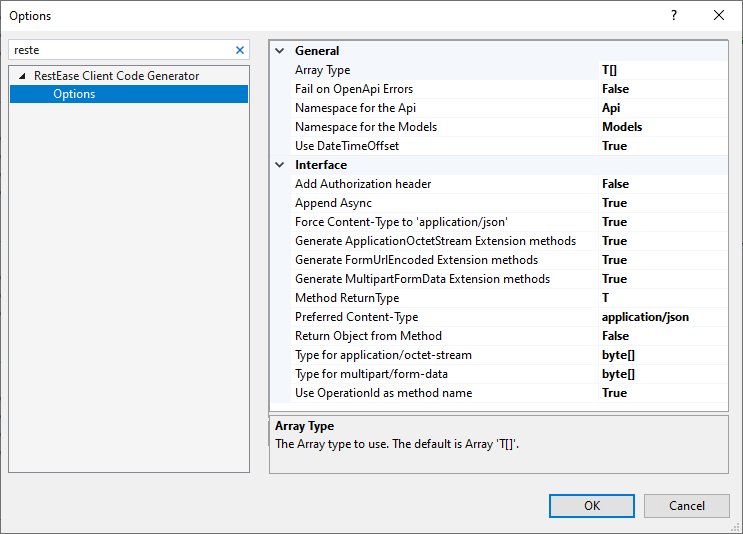
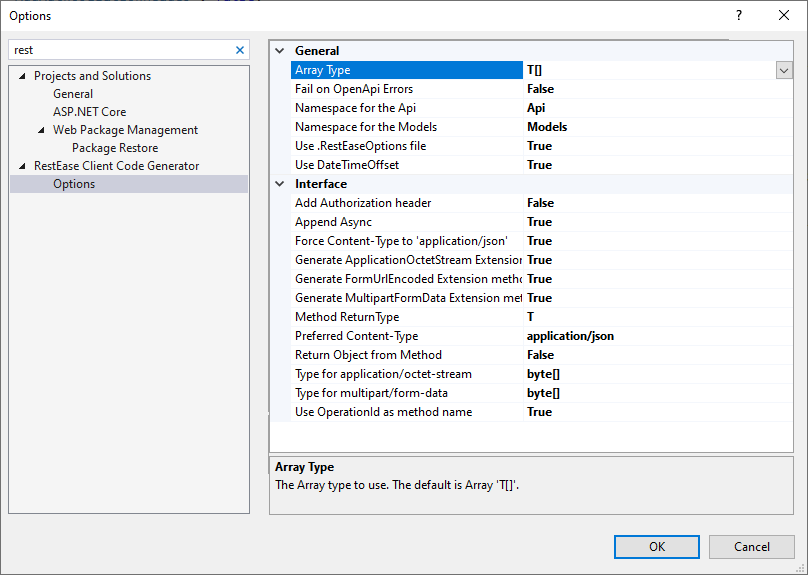
Add User Options

diff --git a/src/RestEaseClientGenerator.VSIX/Options/OptionsFactory.cs b/src/RestEaseClientGenerator.VSIX/Options/OptionsFactory.cs
@@ -21,11 +21,15 @@ namespace RestEaseClientGenerator.VSIX.Options
         public string Serialize(IRestEaseOptions options)
         {
             var stringBuilder = new StringBuilder();
+            //stringBuilder.AppendLine("{");
+            //stringBuilder.AppendLine("  /**/");
+
             using (var t = new JsonTextWriter(new StringWriter(stringBuilder)))
             {
                 t.Formatting = Formatting.Indented;
 
                 t.WriteStartObject();
+                t.WriteComment("Use this file to overrule the RestEase Client Generator Options");
 
                 t.WritePropertyName(nameof(options.AddAuthorizationHeader));
                 t.WriteValue(options.AddAuthorizationHeader);
@@ -36,9 +40,13 @@ namespace RestEaseClientGenerator.VSIX.Options
                 t.WritePropertyName(nameof(options.AppendAsync));
                 t.WriteValue(options.AppendAsync);
 
-                WriteEnumComment<ApplicationOctetStreamType>(t);
                 t.WritePropertyName(nameof(options.ApplicationOctetStreamType));
                 t.WriteValue(options.ApplicationOctetStreamType.GetDescription());
+                WriteEnumComment<ApplicationOctetStreamType>(t);
+
+                t.WritePropertyName(nameof(options.ArrayType));
+                t.WriteValue(options.ArrayType.GetDescription());
+                WriteEnumComment<ArrayType>(t);
 
                 t.WritePropertyName(nameof(options.FailOnOpenApiErrors));
                 t.WriteValue(options.FailOnOpenApiErrors);
@@ -55,20 +63,20 @@ namespace RestEaseClientGenerator.VSIX.Options
                 t.WritePropertyName(nameof(options.GenerateMultipartFormDataExtensionMethods));
                 t.WriteValue(options.GenerateMultipartFormDataExtensionMethods);
 
-                WriteEnumComment<MethodReturnType>(t);
                 t.WritePropertyName(nameof(options.MethodReturnType));
                 t.WriteValue(options.MethodReturnType.GetDescription());
+                WriteEnumComment<MethodReturnType>(t);
 
                 t.WritePropertyName(nameof(options.ModelsNamespace));
                 t.WriteValue(options.ModelsNamespace);
 
-                WriteEnumComment<MultipartFormDataFileType>(t);
                 t.WritePropertyName(nameof(options.MultipartFormDataFileType));
                 t.WriteValue(options.MultipartFormDataFileType.GetDescription());
+                WriteEnumComment<MultipartFormDataFileType>(t);
 
-                WriteEnumComment<ContentType>(t);
                 t.WritePropertyName(nameof(options.PreferredContentType));
                 t.WriteValue(options.PreferredContentType.GetDescription());
+                WriteEnumComment<ContentType>(t);
 
                 t.WritePropertyName(nameof(options.ReturnObjectFromMethodWhenResponseIsDefinedButNoModelIsSpecified));
                 t.WriteValue(options.ReturnObjectFromMethodWhenResponseIsDefinedButNoModelIsSpecified);
@@ -93,14 +101,7 @@ namespace RestEaseClientGenerator.VSIX.Options
                 descriptions.Add($"'{value.GetDescription()}'");
             }
 
-            WriteComment(writer, $"Possible values are: {string.Join(", ", descriptions)}");
-        }
-
-        private void WriteComment(JsonTextWriter writer, string comment)
-        {
-            string indent = new string(' ', writer.Indentation);
-
-            writer.WriteRaw($"\r\n{indent}/* {comment} */");
+            writer.WriteComment($"Possible values are: {string.Join(", ", descriptions)}");
         }
     }
 }

diff --git a/src/RestEaseClientGenerator.VSIX/Options/RestEase/RestEaseOptionsPage.cs b/src/RestEaseClientGenerator.VSIX/Options/RestEase/RestEaseOptionsPage.cs
@@ -105,6 +105,7 @@ namespace RestEaseClientGenerator.VSIX.Options.RestEase
         public bool UseOperationIdAsMethodName { get; set; } = true;
         #endregion
 
+        #region MergeWith
         public void MergeWith(RestEaseUserOptions options)
         {
             if (options.ArrayType.HasValue)
@@ -197,5 +198,6 @@ namespace RestEaseClientGenerator.VSIX.Options.RestEase
                 UseOperationIdAsMethodName = options.UseOperationIdAsMethodName.Value;
             }
         }
+        #endregion
     }
 }
